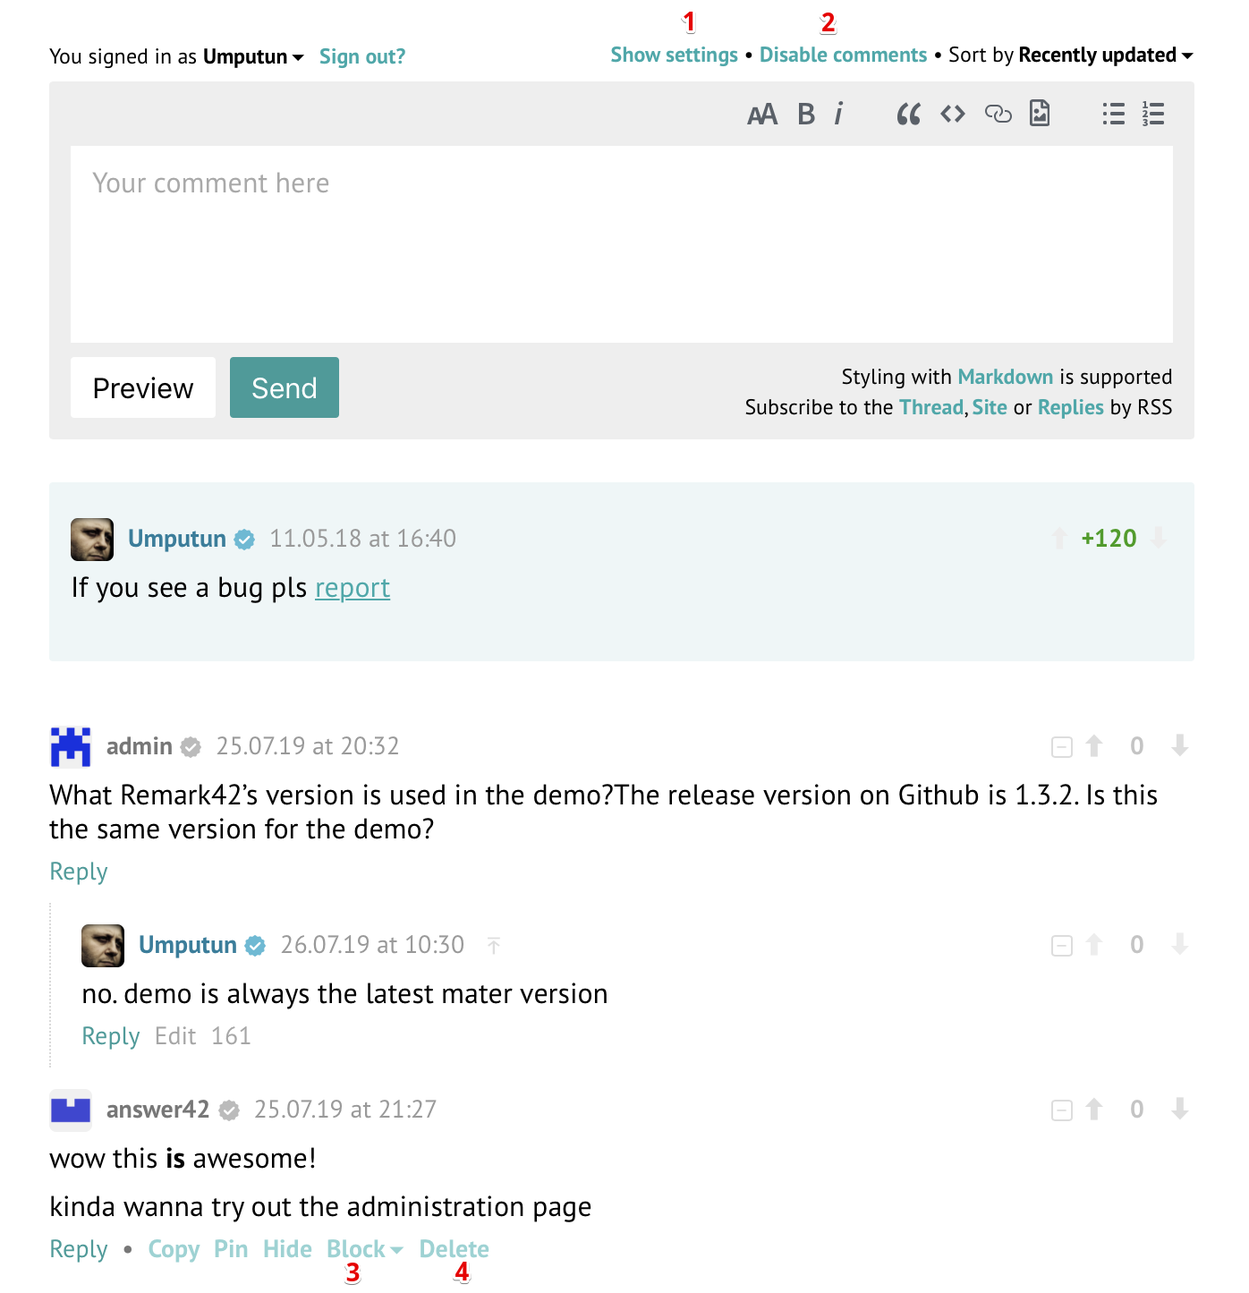
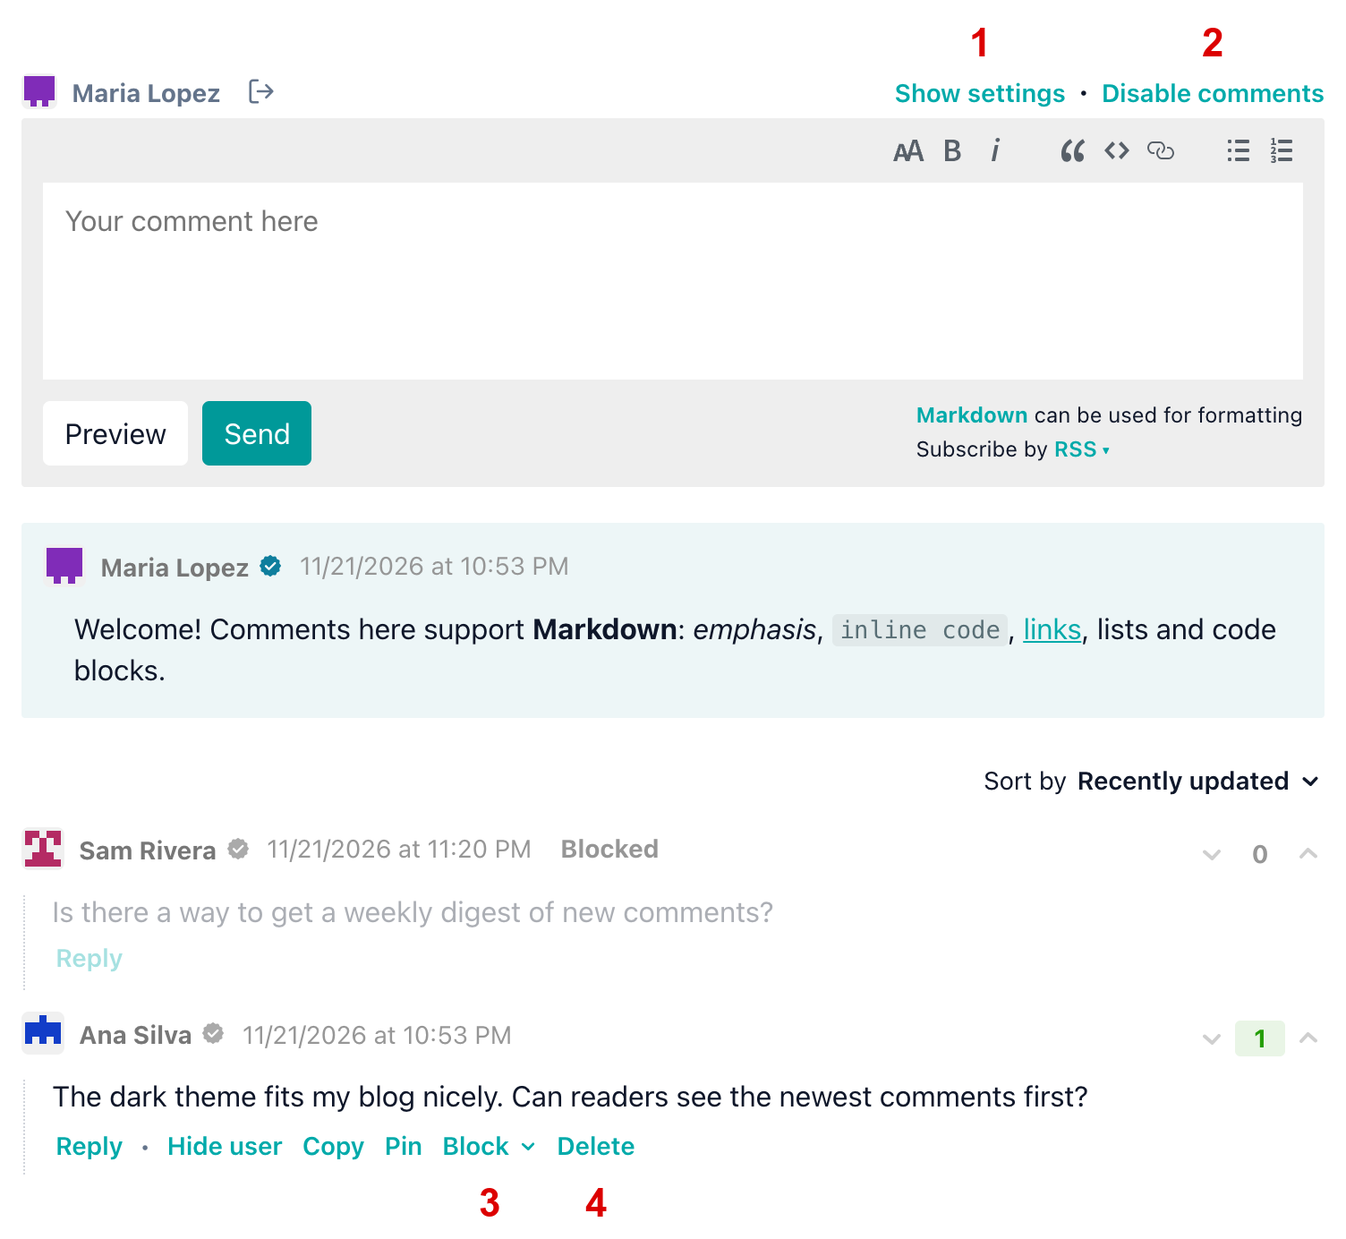
Describe backup, restore, migration and the admin controls as they work (#2397)
* Describe backup, restore, migration and the admin controls as they work

The backup pages left out what a backup holds besides comments, where
a manual backup lands, that restore, import and remap only submit a job
whose result goes to the server log, and that the commands reach the
server through REMARK_URL and the reverse proxy. The restore page did
not say what a restore clears and keeps or what -s chooses, called the
calls unexposed while they answer anyone with ADMIN_PASSWD, and gave a
merge recipe that cannot work on gzipped backups; it now gives five
steps that were run end to end. The migration pages now say what each
importer leaves out, point a domain change at URL migration, show the
prefix rule and the strict rules format, and say how to put a file
into the container on Linux.

The Admin UI page listed four controls with screenshots of the 2019
interface. It now lists all seven with their effects, and the four
screenshots are retaken from the current widget.

* Tell readers to stop writes during the merge of two backups

A comment or subscription saved between the first backup and the final
restore is in neither file, so the merge procedure loses it on a live
site. The page now says to block writes until the restore is done and
to reach the server directly while the proxy blocks the site.

diff --git a/site/content/docs/backup/migration/index.md b/site/content/docs/backup/migration/index.md
@@ -2,33 +2,39 @@
 title: Migration from Disqus/WordPress/Commento to Remark42
 ---
 
-Remark42 supports importing comments from Disqus, WordPress, Commento, or native backup format. All imported comments have an `Imported` field set to `true`. All methods below remove existing comments from the site if they are present, please see the [restoration documentation](https://remark42.com/docs/backup/restore/) for instructions on import preserving existing comments.
+Remark42 supports importing comments from Disqus, WordPress, Commento, or native backup format. All imported comments have an `Imported` field set to `true`. All methods below remove existing comments from the site if they are present, please see the [restoration documentation](https://remark42.com/docs/backup/restore/) for instructions on import preserving existing comments. An import from Disqus, WordPress or Commento also removes the notification addresses users subscribed with, so existing subscriptions end; a native restore brings back the addresses stored in the backup. Blocked and verified users and posts with comments disabled are kept.
 
-In `docker exec -it remark42 remark42 ...`, the first `remark42` is the container name and the second is the Remark42 binary inside it.
+In `docker exec -it remark42 remark42 ...`, the first `remark42` is the container name and the second is the Remark42 binary inside it. The command sends the file to the server over HTTP at `REMARK_URL`, the public address in the container's environment, so the request goes through your reverse proxy and its request size limit. To send it to the server directly, add `--url=http://127.0.0.1:8080`, using the port the server listens on inside the container.
+
+The import command only submits the job: it prints `completed, status=202` and exits while the server imports in the background. The result is in the server's log (`docker logs remark42`): `import request completed` with the number of comments, or a line with `import failed`. A second import for the same site is refused with 409 while one is running.
+
+On Linux, the container makes its own `app` user the owner of `./var` at every start, which can stop a host user other than root from writing there. Copy a file into the container with `docker cp <file> remark42:/srv/var/<file>`, or set `APP_UID` to your host user's ID to keep `./var` writable for you.
 
 ### Initial import from Disqus
 
-1. Disqus provides export of all comments on your site in a gzipped file. This option is available in your Moderation panel at Disqus Admin > Setup > Export. The export will be sent into a queue and then emailed to the address associated with your account once it's ready. Direct link to export will be something like `https://<siteud>.disqus.com/admin/discussions/export/`. See [importing-exporting](https://help.disqus.com/en/articles/1717199-importing-exporting) for more details
-2. Move this file to your Remark42 host within `./var` and extract, i.e., `gunzip <disqus-export-name>.xml.gz`
-3. Run import command (`ADMIN_PASSWD` must be enabled on the server for it to work) - `docker exec -it remark42 remark42 import -p disqus -f /srv/var/{disqus-export-name}.xml -s {your site ID}`
+1. Disqus provides export of all comments on your site in a gzipped file. This option is available in your Moderation panel at Disqus Admin > Setup > Export. The export will be sent into a queue and then emailed to the address associated with your account once it's ready. Direct link to export will be something like `https://<shortname>.disqus.com/admin/discussions/export/`. See [importing-exporting](https://help.disqus.com/en/articles/1717199-importing-exporting) for more details
+2. Copy this file to `/srv/var` in the Remark42 container. There is no need to unpack it: a file name ending in `.gz` is unpacked during the import
+3. Run import command (`ADMIN_PASSWD` must be enabled on the server for it to work) - `docker exec -it remark42 remark42 import -p disqus -f /srv/var/{disqus-export-name}.xml.gz -s {your site ID}`
 
 The import also fetches each commenter's avatar from Disqus and stores it with the other avatars, so Remark42 serves it without linking to Disqus. Avatars are fetched before the existing comments are replaced, at about ten users a second; a commenter without a Disqus avatar, or whose avatar Disqus fails to return, is imported without one. The server needs outbound HTTPS access to `disqus.com` and `disquscdn.com` for this, and imports the comments without avatars when Disqus can't be reached.
+
+Left out of the import: the comments of deleted threads, votes, and avatars of guests who commented without a Disqus account. Deleted comments and comments marked as spam are kept without their text and author only when they have replies, so the replies stay in their thread; otherwise they are not shown.
 
 ### Initial import from WordPress
 
 1. Use [that instruction](https://wordpress.com/support/export/) to export comments to file using standard WordPress functionality
-2. Move this file to your Remark42 host within `./var`
+2. Copy this file to `/srv/var` in the Remark42 container
 3. Run import command (`ADMIN_PASSWD` must be enabled on the server for it to work) - `docker exec -it remark42 remark42 import -p wordpress -f /srv/var/{wordpress-export-name}.xml -s {your site ID}`
 
-Only approved comments are imported. Pingbacks, trackbacks and records plugins keep as comments, such as WooCommerce order notes, are left out.
+Only approved comments are imported. Pingbacks, trackbacks and records plugins keep as comments, such as WooCommerce order notes, are left out. Avatars and votes are not imported, and commenters are told apart by their display name only, so two commenters with the same name become one user.
 
 Comment text is shown the way WordPress shows it: blank lines start paragraphs, line breaks are kept, bare links and email addresses become links and text smilies become emoji. Markdown is not interpreted, as WordPress does not interpret it either. Quotes and dashes are curled unless `DISABLE_FANCY_TEXT_FORMATTING` is set.
 
 ### Initial import from Commento
 
-1. Move exported json file to your Remark42 host within `./var`
+1. Copy the exported JSON file to `/srv/var` in the Remark42 container
 2. Run import command (`ADMIN_PASSWD` must be enabled on the server for it to work) - `docker exec -it remark42 remark42 import -p commento -f /srv/var/{commento-export-name}.json -s {your site ID}`
 
-Comments waiting for moderation or flagged as spam in Commento are not imported.
+Comments waiting for moderation or flagged as spam in Commento are not imported, and neither is a comment whose author is missing from the export's list of commenters, except anonymous comments. Scores are not imported. An avatar is kept as the `http` or `https` address given in the export; any other value is dropped.
 
-Comments are imported for the domain specified in the provided file, with `https://` prefix. If you want to import comments for a different domain or for `http://` domain, you'll need to export them after importing, alter the export file `url` property and re-import them.
+Comments are imported for the domain specified in the provided file, with `https://` prefix. To move them to a different domain or to an `http://` address, use [URL migration](https://remark42.com/docs/backup/url-migration/) with a prefix rule after the import.

diff --git a/site/content/docs/backup/backup/index.md b/site/content/docs/backup/backup/index.md
@@ -6,7 +6,7 @@ aliases:
 
 ## Automatic
 
-Remark42 backs up every site automatically to `${BACKUP_PATH}` (default `./var/backup`), as `backup-{site ID}-{YYYYMMDD}.gz` with the server's local date. When the server starts, it writes a backup of each site that has none for the current day, so a restart on a day that already has one writes no other, and a backup with no comments in it is not written at start when it would push an existing backup out; after that, it writes one every 24 hours while it runs. A failed backup leaves the earlier files in place; another attempt runs at the next scheduled time or the next start. The newest `${MAX_BACKUP_FILES}` (default 10) automatic backups of each site are kept. Manual backups under their default `userbackup-…` name are not counted and are never removed. Each backup file contains exported and gzipped content, i.e., all comments. At any point, the user can restore such backup and revert all comments to the desired state.
+Remark42 backs up every site automatically to `${BACKUP_PATH}` (default `./var/backup`), as `backup-{site ID}-{YYYYMMDD}.gz` with the server's local date. When the server starts, it writes a backup of each site that has none for the current day, so a restart on a day that already has one writes no other, and a backup with no comments in it is not written at start when it would push an existing backup out; after that, it writes one every 24 hours while it runs. A failed backup leaves the earlier files in place; another attempt runs at the next scheduled time or the next start. The newest `${MAX_BACKUP_FILES}` (default 10) automatic backups of each site are kept. Manual backups under their default `userbackup-…` name are not counted and are never removed. Each backup file holds the site's comments and its users' and posts' settings, described in [Backup format](#backup-format), gzipped. Restoring a backup replaces the site's comments and notification addresses with the ones in the file; blocks, verified marks and disabled posts already set stay, and those in the file are added.
 
 **Note:** The [restore procedure](https://remark42.com/docs/backup/restore/) cleans the current data store and replaces all comments from the backup file.
 
@@ -15,12 +15,12 @@ Remark42 backs up every site automatically to `${BACKUP_PATH}` (default `./var/b
 You can make a backup manually whenever you want. Run the command (`ADMIN_PASSWD` must be enabled on the server for it to work):
 `docker exec -it remark42 remark42 backup -s {your site ID}`
 
-In `docker exec -it remark42 remark42 ...`, the first `remark42` is the container name and the second is the Remark42 binary inside it.
+In `docker exec -it remark42 remark42 ...`, the first `remark42` is the container name and the second is the Remark42 binary inside it. The command asks the server for the backup over HTTP at `REMARK_URL`, the public address in the container's environment, so the request goes through your reverse proxy. To send it to the server directly, add `--url=http://127.0.0.1:8080`, using the port the server listens on inside the container.
 
-This command creates `userbackup-{site ID}-{timestamp}.gz` file by default.
+This command writes `userbackup-{site ID}-{YYYYMMDDTHHMMSS}.gz` to `${BACKUP_PATH}`, which is `/srv/var/backup` in the container and `./var/backup` on the host with the usual volume. `-f` sets another file name and `-p` another directory; a file name that contains `/` is used as the full path.
 
 ## Backup format
 
-The backup file is a text file with all exported comments separated by EOL. Each backup record is a valid JSON with all key/value unmarshaled from the `Comment` struct (see [here](https://remark42.com/docs/contributing/api/#commenting)).
+The backup file is a text file with one JSON record per line. The first line is a metadata record, `{"version":1,"users":[…],"posts":[…]}`: the blocked and verified users, the email addresses and Telegram accounts users subscribed to notifications with, and the posts with comments disabled. Each following line is one comment, marshalled from the `Comment` struct (see [here](https://remark42.com/docs/contributing/api/#commenting)). Deleted comments and the votes of each comment are included; the hashes of the voters' IP addresses are not.
 
 Avatars and images are stored separately. By default avatars are stored in `./var/avatars` and images in `./var/pictures` and need to be backed up, as well. For more information, check the [technical details of the backend documentation](https://remark42.com/docs/contributing/backend/#technical-details).

diff --git a/site/content/docs/backup/restore/index.md b/site/content/docs/backup/restore/index.md
@@ -2,19 +2,33 @@
 title: Restore Backup
 ---
 
-Restore removes all existing comments before importing the contents of the supplied file.
+Restore removes all comments of the site and the notification addresses users subscribed with, then imports the file, which brings back the comments and the addresses stored in it. Blocked and verified users and posts with comments disabled are kept and updated from the file.
 
-For safety and security reasons, restore functionality is not exposed outside your server by default. The recommended way to restore from the backup is to run the `restore` command inside the container (`ADMIN_PASSWD` must be enabled on the server for it to work):
+Restore, like backup, import and URL migration, is an admin API call. The command signs in with `ADMIN_PASSWD`, and once the password is set it works from any address that can reach the server, so set it only while you need it. Signed-in administrators can make these calls without it. The recommended way to restore from the backup is to run the `restore` command inside the container:
 
 `docker exec -it remark42 remark42 restore -f {backup-filename.gz} -s {your site ID}`
 
-In `docker exec -it remark42 remark42 ...`, the first `remark42` is the container name and the second is the Remark42 binary inside it.
+In `docker exec -it remark42 remark42 ...`, the first `remark42` is the container name and the second is the Remark42 binary inside it. The command sends the file to the server over HTTP at `REMARK_URL`, the public address in the container's environment, so the request goes through your reverse proxy and its request size limit. To send it to the server directly, add `--url=http://127.0.0.1:8080`, using the port the server listens on inside the container.
+
+A file name without `/` is looked up in `${BACKUP_PATH}`, `/srv/var/backup` in the container. A name ending in `.gz` is unpacked on the fly.
+
+`-s` must be the site the backup was made from. Restore first deletes all comments of the site given with `-s`, then writes each comment from the file to the site recorded in it. Restoring a backup of another site therefore deletes the comments of the site given with `-s` and does not bring back any comment that is still stored.
+
+The command only submits the job: it prints `completed, status=202` and exits while the server imports the file in the background. The result is in the server's log (`docker logs remark42`): `import request completed` with the number of comments, or a line with `import failed`. A second restore, import or URL migration for the same site is refused with 409 while one is running.
 
 ### Import/restore without removing existing comments
 
-The `restore` command nukes the existing comments on the site. You should make two backup files to preserve them, one for the current remark42 content and another for WP/Discuss/Commento content you want to import. The format of backups is plain JSON with EOL (JSON line) and can be easily constructed from multiple sources. Merge them and restore them from the resulting file:
+The `restore` command removes the existing comments on the site, and so does an import. To add comments from Disqus, WordPress or Commento while keeping the ones you have, combine two backups and restore the result. Stop all writes from step 1 until the server log confirms the final restore: a comment or subscription saved in between is in neither file and is lost. For example, block the site at the reverse proxy and run the commands with `--url=http://127.0.0.1:8080`, which reaches the server directly instead of through `REMARK_URL`.
 
-```shell
-cat wp-export.json | grep -v '{"version":1' >> combined-export.json
-docker exec -it remark42 remark42 restore -f combined-export.json -s {your site ID}
-```
+1. Back up the site: `docker exec -it remark42 remark42 backup -s {your site ID} -f current.gz`
+2. Import the comments from the other system as described in [Migration](https://remark42.com/docs/backup/migration/). This replaces the existing comments.
+3. Back up the site again: `docker exec -it remark42 remark42 backup -s {your site ID} -f imported.gz`
+4. Combine the two files, leaving out the metadata line of the second one:
+
+   ```shell
+   docker exec remark42 sh -c 'cd var/backup && { gunzip -c current.gz; gunzip -c imported.gz | tail -n +2; } > combined.json'
+   ```
+
+5. Restore the combined file: `docker exec -it remark42 remark42 restore -f combined.json -s {your site ID}`
+
+Wait for each import or restore to finish in the server's log before running the next step.

diff --git a/site/content/docs/backup/url-migration/index.md b/site/content/docs/backup/url-migration/index.md
@@ -4,35 +4,43 @@ title: Site URL migration
 
 Here is an example of how to move your comments after your posts are moved, from `https://example.org/blog/<slug>` to `https://example.org/post/<slug>` in that example.
 
+Remap exports the site's comments, clears the site and imports them back with the new addresses, so a failure in the middle leaves the site incomplete: make a [backup](https://remark42.com/docs/backup/backup/) first. Afterwards every comment is marked as imported, and the stored hashes of the voters' IP addresses are gone, so the same-IP vote restriction (`VOTES_IP`) starts afresh.
+
 ### Rules file
 
-First, you must create a `rules` file in the remark's `/var` folder.
+First, create a `rules` file in the server's data directory, `/srv/var` in the container and `./var` on the host.
 
-Format is simply `old_url new_url` like following:
+Each row holds an old and a new address separated by exactly one space. An address ending in `*` is a prefix: the row moves every address that starts with it, keeping the rest of the address. An exact row wins over a prefix row, and a longer prefix over a shorter one:
 
 ```
 https://example.org/old-url-1/ https://example.org/new-url-1/
-https://example.org/old-url-2/ https://example.org/new-url-2/
+https://example.org/blog/* https://example.org/post/*
 ```
+
+The second row does the move from the example above. A double space, a tab or an empty row between rules fails the whole request with `bad row`.
+
+On Linux, the container makes its own `app` user the owner of `./var` at every start, which can stop a host user other than root from writing the file there. Write it through the container instead:
+
+```shell
+docker exec remark42 sh -c 'echo "https://example.org/blog/* https://example.org/post/*" > var/rules'
+```
+
+or set `APP_UID` to your host user's ID to keep `./var` writable for you.
 
 ### Applying the remap
 
 After rules file is ready, run the following command (`ADMIN_PASSWD` must be enabled on the server for it to work):
 
 ```shell
-remark42 remap --admin-passwd <password> -s <your site ID> -f var/rules
-```
-
-If running in a docker container, the command becomes (`ADMIN_PASSWD` will be taken from the environment):
-
-```shell
 docker exec -it remark42 remark42 remap -s <your site ID> -f var/rules
 ```
 
-In `docker exec -it remark42 remark42 ...`, the first `remark42` is the container name and the second is the Remark42 binary inside it.
+In `docker exec -it remark42 remark42 ...`, the first `remark42` is the container name and the second is the Remark42 binary inside it. The command takes `ADMIN_PASSWD`, `REMARK_URL` and `SECRET` from the container's environment. It sends the request to `REMARK_URL`, the public address, so the request goes through your reverse proxy; to send it to the server directly, add `--url=http://127.0.0.1:8080`, using the port the server listens on inside the container.
 
-The command above sends a _request_ to start the remap job. You can see the job execution logs by running:
+Outside the container, set `REMARK_URL` and `SECRET` in the environment, or pass `--url` and `--secret`:
 
 ```shell
-docker logs <container>
+remark42 remap --url <REMARK_URL> --secret <SECRET> --admin-passwd <password> -s <your site ID> -f var/rules
 ```
+
+The command above sends a _request_ to start the remap job and exits before the job is done. `docker logs remark42` shows `imported N comments from M records` when it is done, or a line with `import failed`.

diff --git a/site/content/docs/manuals/admin-interface/index.md b/site/content/docs/manuals/admin-interface/index.md
@@ -2,17 +2,25 @@
 title: Admin UI
 ---
 
-Administrators defined by `admin.shared.id` / `$ADMIN_SHARED_ID` and get the following extra control elements:
+Administrators are defined by `admin.shared.id` / `$ADMIN_SHARED_ID` and get the following extra control elements. On a device with a mouse, the controls below a comment appear when the pointer is over that row.
 
 ![Admin interface](images/admin-primary.png)
 
-1. **Show settings - lists of blocked and hidden users.**
-   ![Blocker and hidden users](images/admin-settings.png)
+1. **Show settings: lists of hidden and blocked users.** A blocked user can be unblocked from the list. Hidden users are every reader's own: any reader can hide a user with **Hide user** under a comment, and the list is kept in that reader's browser.
+   ![Hidden and blocked users](images/admin-settings.png)
 
-2. **Disable comments for the post. Can be enabled back anytime.**
+2. **Disable comments for the post.** Nobody can comment or vote on a disabled post, administrators included. **Enable comments** turns them back on, unless `READONLY_AGE` is set and the post's first comment is older than that many days.
 
-3. **Block user permanently or temporary.**
+3. **Block a user permanently, for a month, a week or a day.** A blocked user cannot post, edit or vote, and their comments are marked **Blocked**. A permanent block also deletes all of the user's comments. **Unblock** under the user's comment, or in the settings, lifts the block; it does not bring back comments deleted by a permanent block.
    ![Block users](images/admin-blocking.png)
 
-4. **Delete a comment**
+4. **Delete a comment.** A deleted comment that has replies stays in the thread as "This comment was deleted", so the replies keep their place; one without replies disappears.
    ![Delete a comment](images/admin-delete.png)
+
+5. **Pin a comment.** A pinned comment is also shown above all the others; **Unpin** removes it from there.
+
+6. **Copy a comment.** Copies the author's name, the time and the text of the comment.
+
+7. **Verify a user.** Administrators see a grey mark next to the name of every user who is not verified; clicking it verifies the user, and clicking the blue mark of a verified user removes the verification.
+
+Blocking, unblocking, deleting, pinning, unpinning and verifying ask for confirmation first.
